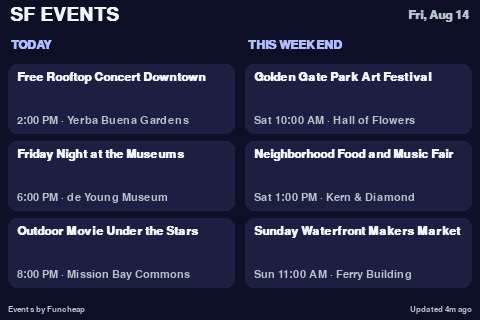
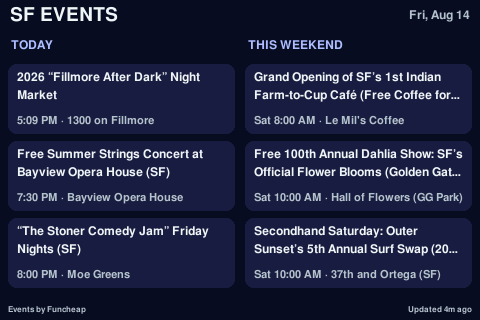
Add live weekend events screenshot

diff --git a/README.md b/README.md
@@ -8,7 +8,7 @@ _Live 480×320 screenshot captured from the installed Raspberry Pi display._
 
 ![San Francisco events scene](examples/events-dashboard.png)
 
-_Three current-day and three unique weekend events, ranked from the selected Funcheap categories._
+_Live Pi capture after the weekend-date fix: three current-day and three unique weekend events, ranked from the selected Funcheap categories._
 
 The default location is Rincon Hill, San Francisco (`37.78521, -122.39192`) with Celsius, km/h, and a 24-hour clock. The display rotates between weather for 20 seconds and events for 10 seconds. Weather refreshes every 10 minutes and events refresh hourly; both retain their last good cached data through network outages.
 
